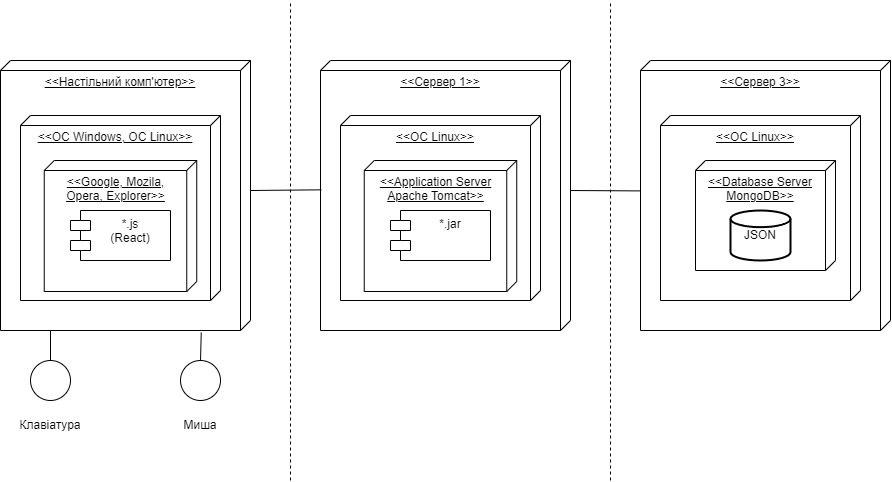
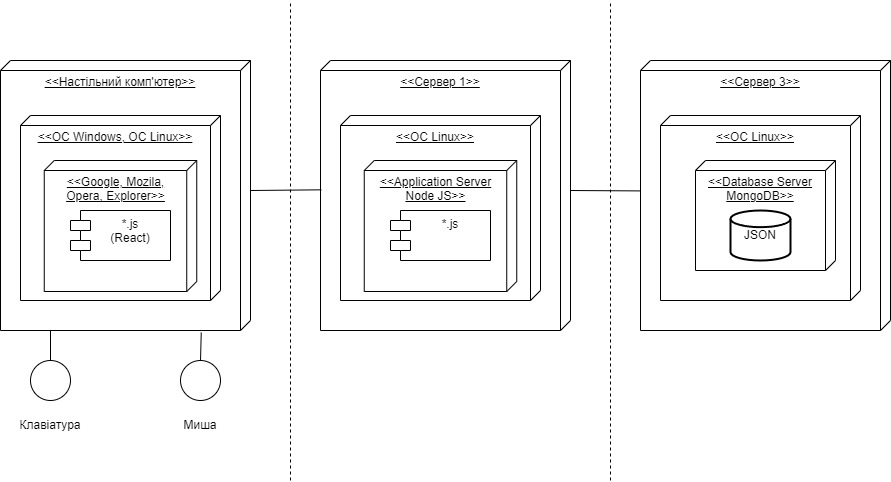
fix image

diff --git a/3-SoftwareConstruction/3-Program-Classes-Example/4-Program-Methods-Example.md b/3-SoftwareConstruction/3-Program-Classes-Example/4-Program-Methods-Example.md
@@ -1,0 +1,24 @@
+```js client
+function viewProductDetails(product) {
+	// спочатку перевіряємо значення поля name у об'єкті product
+	if (product.name.length > 50) {
+		return 0;
+	}
+
+	// потім перевіряємо значення поля manufacturer у об'єкті product
+	if (product.manufacturer.length > 100) {
+		return 0;
+	}
+
+	// спочатку перевіряємо значення поля price у об'єкті product
+	if (product.price < 0 || product.price > 100000) {
+		return 0;
+	}
+	//якщо одна із цих перевірок виконається, то програма поверне значення 0
+	//це означає, що є помлка
+
+	// якщо всі провірки не пройли, то все правильно
+	//функція повертає значення product
+	return product;
+}
+```

diff --git a/3-SoftwareConstruction/3-Program-Classes-Example/1-SofttwareComponent.md b/3-SoftwareConstruction/3-Program-Classes-Example/1-SofttwareComponent.md
@@ -1,0 +1,5 @@
+| Тип програмної компоненти | Тип програмної компоненти | Місце розташування програмної компоненти |
+|:-------------------------:|:-------------------------:|:----------------------------------------:|
+| IDE                       | VS Code                   | Localhost                                |
+| Application Server        | Node js                   | Localhost                                |
+| Database Server           | MongoDB                   | Localhost                                |
